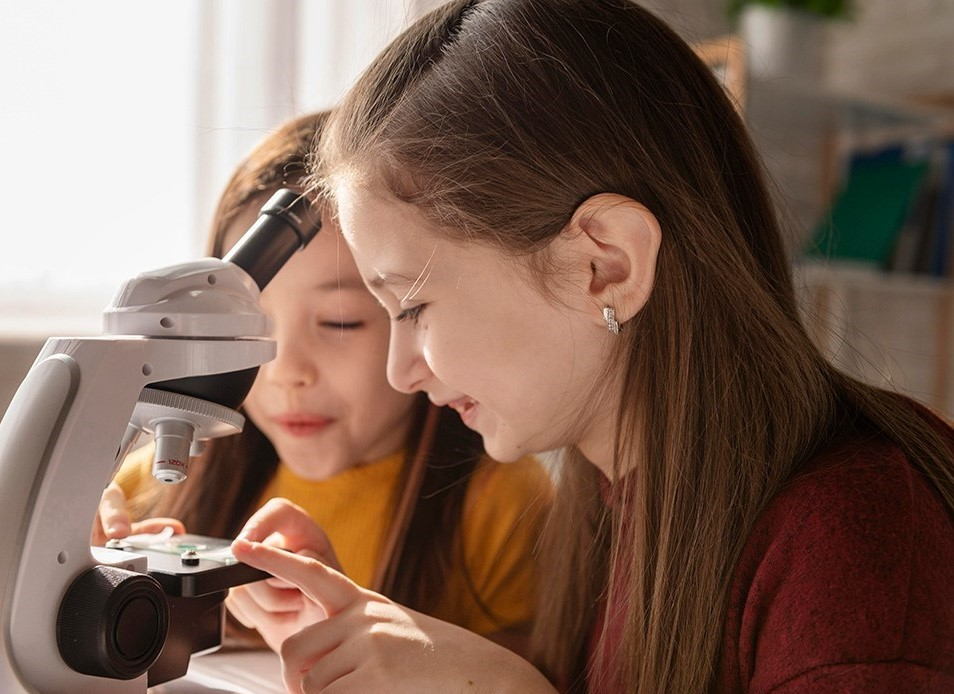
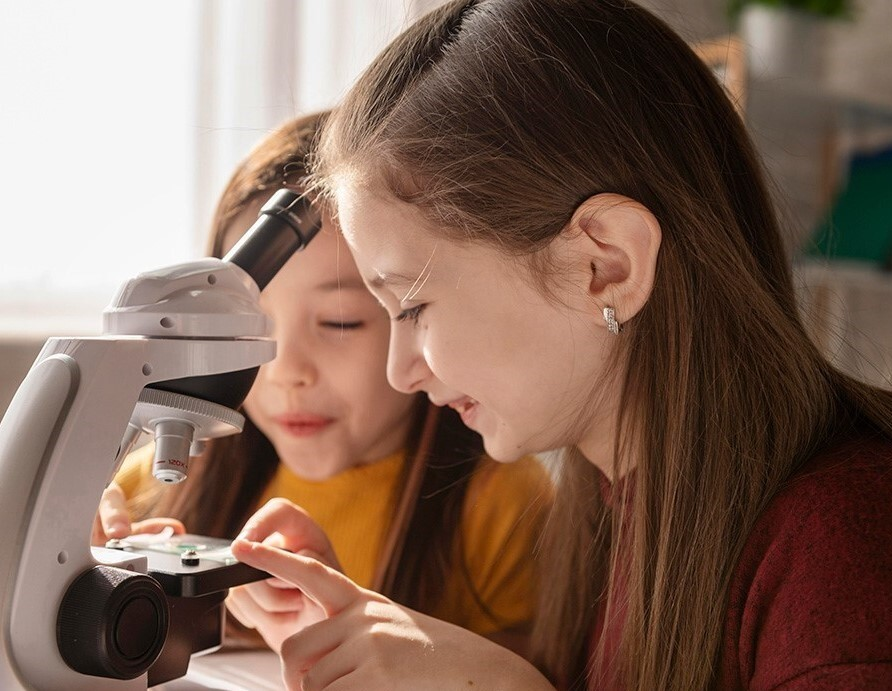
Crop photos, add medium layout

diff --git a/laba4/style.css b/laba4/style.css
@@ -8,14 +8,14 @@ html, body {
 header{
     display: flex;
     justify-content: space-between ;
-    padding: 1em 13% 1em 13%;
-    min-width: 370px;
+    padding: 1em 12.5% 1em 12.5%;
+    min-width: 400px;
 }
 .main{
-    padding: 3em 13% 3em 13%;
+    padding: 3em 12.5% 3em 12.5%; /*auto */
     display: flex;
     flex-direction: column;
-    min-width: 370px;
+    min-width: 400px; 
 }
 footer{
     background-color: #333333;
@@ -23,7 +23,7 @@ footer{
     justify-content: space-around;
     padding: 2em 3em 2em 3em;
     text-align: center;
-    min-width: 370px;
+    min-width: 400px;
 }
 #footer_text{
     color: white;
@@ -44,13 +44,17 @@ footer{
     align-items: flex-start;
 }
 #girl_and_teacher{
-    max-width: 294px;
+    box-sizing: border-box;
+    width: 100%;
+    max-width: 328px;
+    min-width: 310px;
     padding: 12px;
     box-shadow: 0px 0px 8px 9px rgba(73, 70, 70, 0.2);
     background-color: white;
-    margin-right: -8rem;
+    margin-right: -6rem;
 }
 .left_text{
+    min-width: 25%;
     font-style: oblique;
     padding: 1.8em;
     font-size: 1.25rem;
@@ -58,8 +62,9 @@ footer{
     line-height: 1.7;
 }
 #girls {
+    width: 100%;
     max-width: 524px;
-    /* max-height: 381px; */
+    min-width: 480px;
     margin-top: 7.5rem;
     align-self: flex-end;
 }
@@ -69,7 +74,7 @@ footer{
     flex-direction: row-reverse;
     justify-content: space-between;
     align-items: flex-start;
-    padding-left: 5em;
+    padding-left: 6.5em;
     gap: 4.6em;
 }
 a {
@@ -81,16 +86,26 @@ a {
     /* font: 16px "Open-Sans", sans-serif; */
 }
 #boy_and_girls{
+    width: 100%;
     max-width: 439px;
+    min-width: 410px;
     box-shadow: 0px 0px 8px 9px rgba(73, 70, 70, 0.2);
-    margin-top: -9.2rem;
+    margin-top: -9.7rem;
 }
 #right_text{
     padding: 1em 2em 1em 0em;
     font-size: 1.25rem;
     line-height: 1.8;
 }
-
+@media(min-width: 1001px) and (max-width: 1300px)
+{
+    .main {
+            padding: 3em 4% 3em 4%;;
+        }
+    .photo_container {
+        padding-top: 6em;
+    }
+}
 @media (max-width: 1000px){
     
     .upper_side{
@@ -102,23 +117,38 @@ a {
     .lower_side {
         display: flex;
         flex-direction: column;
+        padding: 0;
+        gap: 0;
     }
     #girls {
         width: 100%;
         min-width: 300px;
         order: 2;
-        margin-top: -4rem;
+        margin-top: -3rem;
         z-index: -1;
     }
     #girl_and_teacher{
         width: 100%;
+        max-width: 310px;
         min-width: 160px;
     }
     #boy_and_girls{
         width: 100%;
         min-width: 300px;
+        margin: 0;
     }
-    .lower_side{
-        
+    .left_text {
+        padding-left: 0;
+        padding-right: 0;
+    }
+    #right_text{
+        padding: 0;
+    }
+    #link_learn_more{
+        padding-top: 3.3em;
+        padding-bottom: 0.8em;
+    }
+    #footer_text {
+        width: 90%;
     }
 }

diff --git a/laba4/index.html b/laba4/index.html
@@ -29,7 +29,7 @@
                 <h3>VIRTUAL OR IN-SCHOOL SCIENCE EXPERIENCES</h3>
                 <p>Lorem ipsum dolor sit amet consectetur adipisicing elit. Nemo vero eligendi similique neque nostrum nobis quibusdam
                     at? A, veniam. Repellendus quod ipsa corporis harum voluptates sit similique dicta dignissimos delectus.</p>
-                <p> <a href="#">LEARN MORE</a></p>
+                <p id="link_learn_more"> <a href="#">LEARN MORE</a></p>
             </div>      
             <img src="images/boy-and-girls.jpg" id="boy_and_girls">
         </div>
